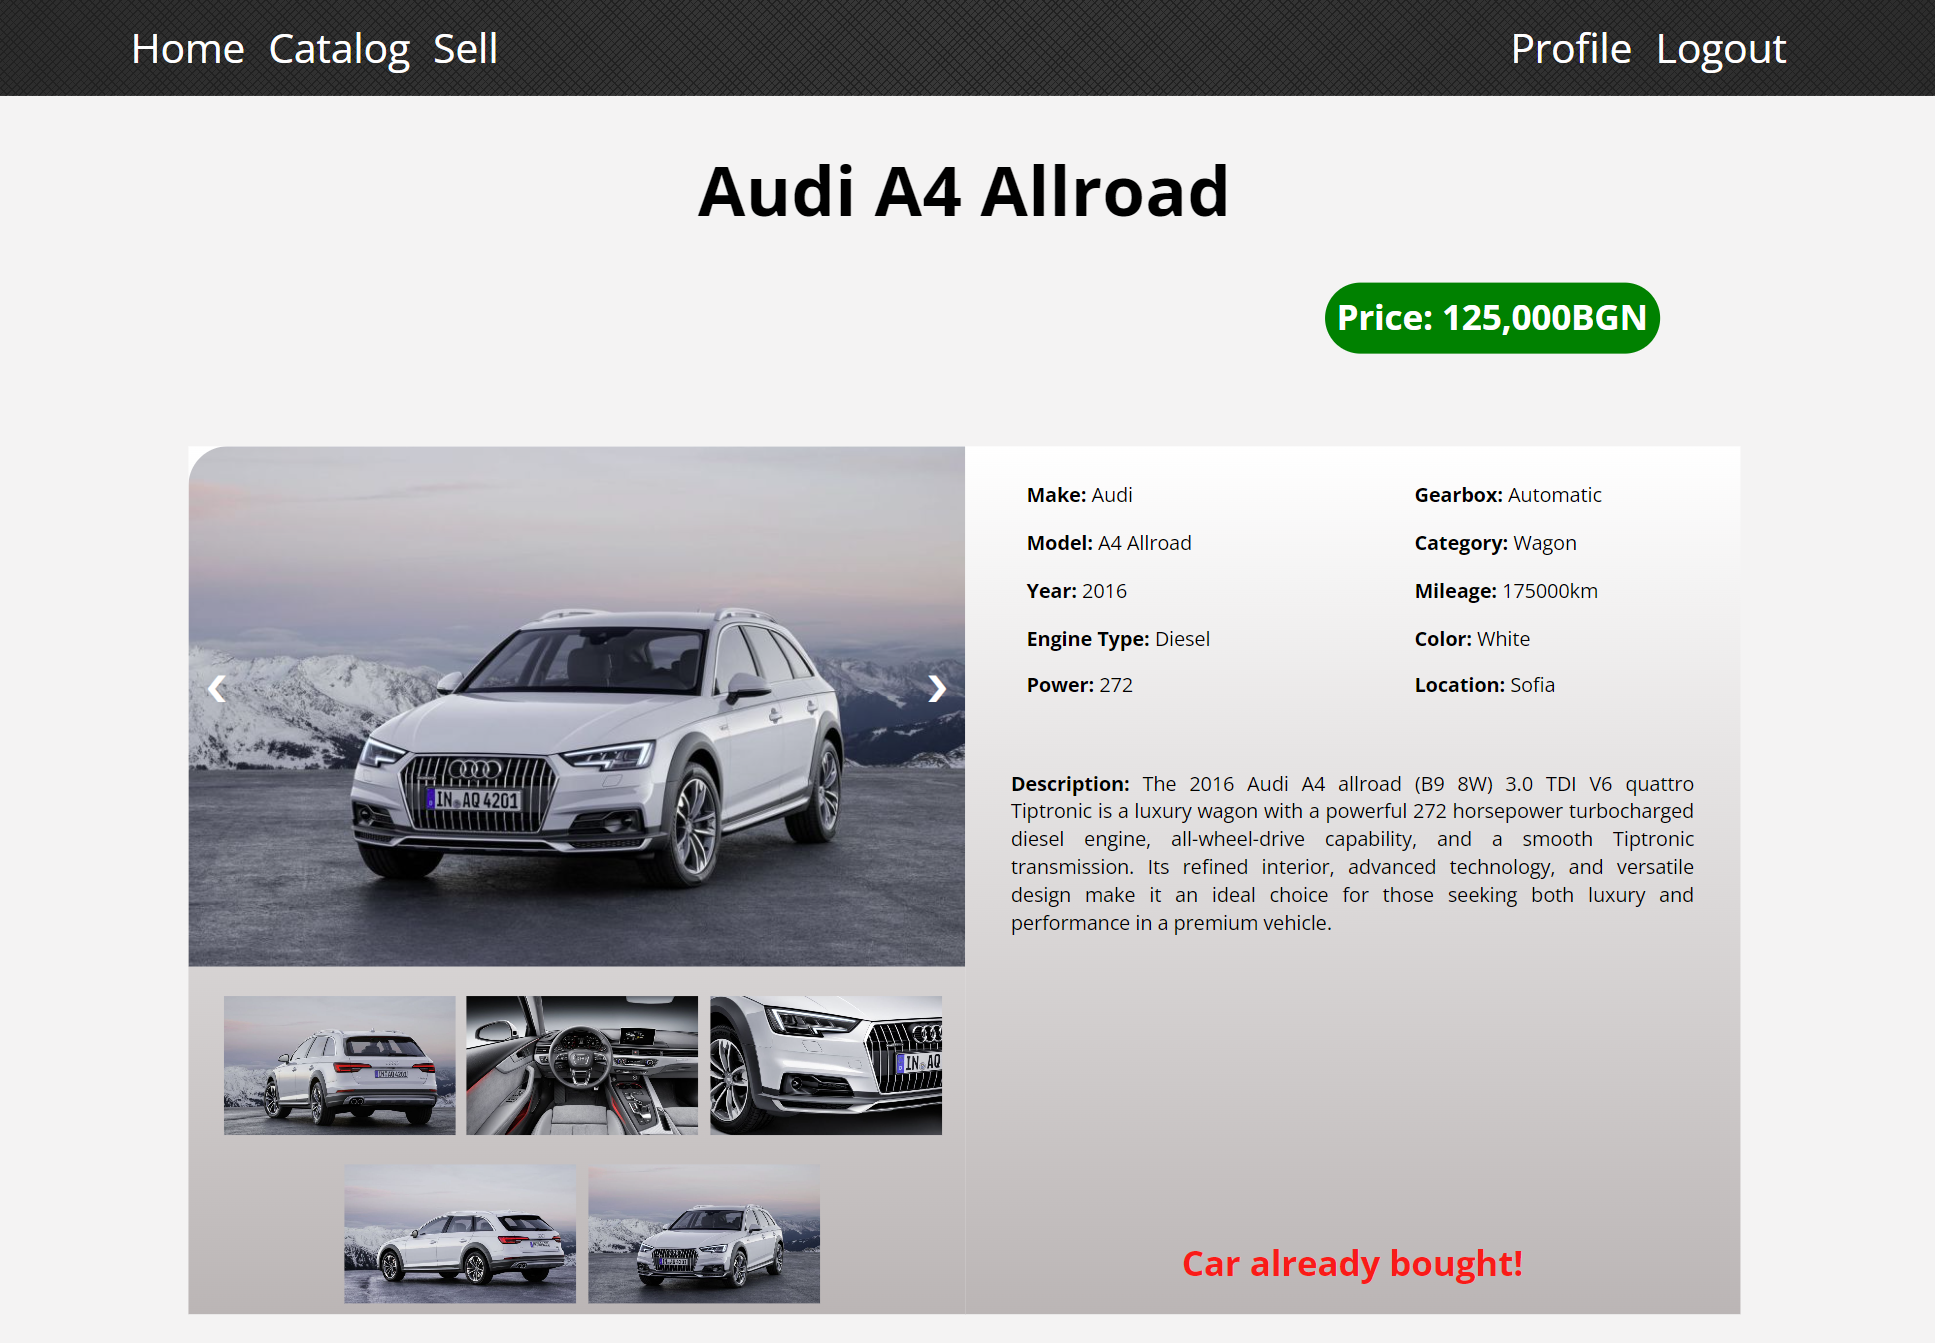
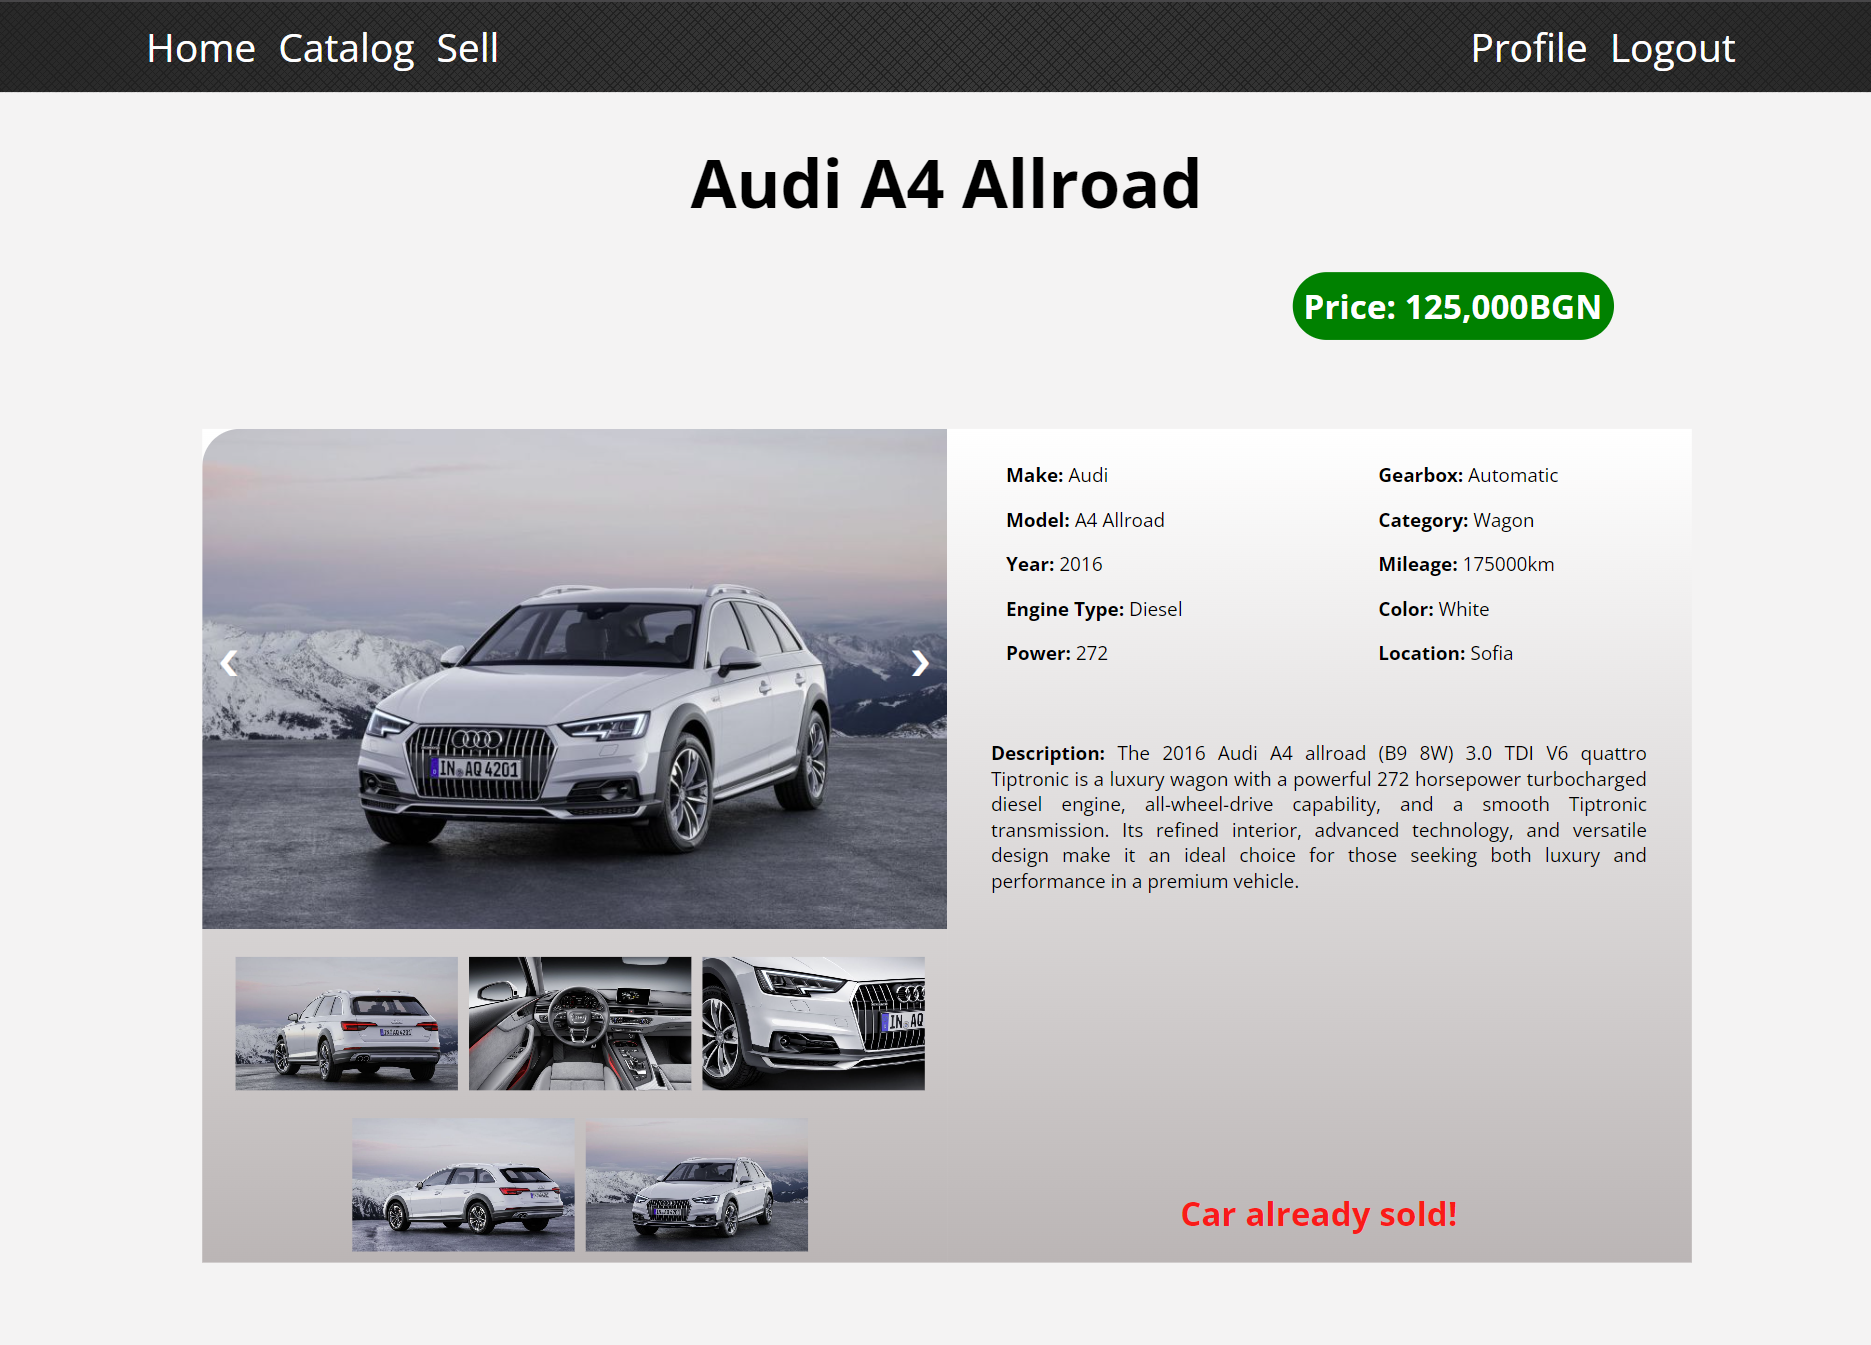
update screenshot

diff --git a/client/src/app/features/car/details/details.component.html b/client/src/app/features/car/details/details.component.html
@@ -43,7 +43,7 @@
                             <button class="button-details" (click)="buyCar(carData?._id!)">Buy</button>
                         </ng-container>
                     <!-- </ng-container> -->
-                    <ng-container *ngIf="isBought && !isBuyer && !isOwner"><p class="bought">Car already bought!</p></ng-container>
+                    <ng-container *ngIf="isBought && !isBuyer && !isOwner"><p class="bought">Car already sold!</p></ng-container>
                     <ng-container *ngIf="isBought && isBuyer"><p class="bought">You already bought this car!</p></ng-container>
               </div>
           </div>
